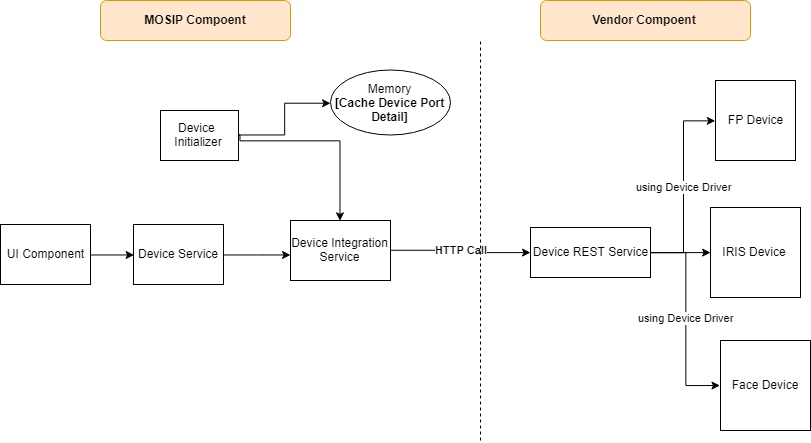
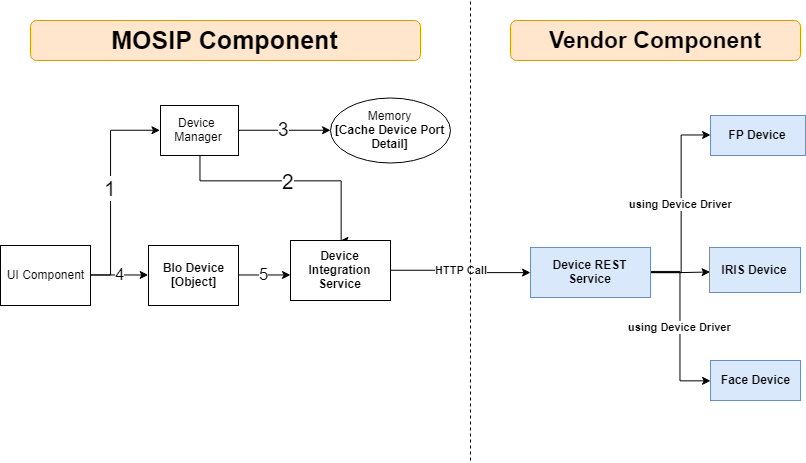
MOS-20888:MDM integration spec updated

Changed region(s): [[0.0, 0.0, 1.0, 0.9684], [0.6203, 0.0, 1.0, 0.1467], [0.8685, 0.1761, 0.8995, 0.2054]]

diff --git a/docs/design/registration/registration-MOSIP-bio-device-integration.md b/docs/design/registration/registration-MOSIP-bio-device-integration.md
@@ -6,81 +6,63 @@ The Registration client application further uses the information to communicate 
 
 There are three major entities are being considered to interact with Bio-metric devices.   
    1. MDM [MOSIP Device Manager - Provided by External third party].  
-   2. DM  [Device Manager - Provided by MOSIP].  
+   2. MDI  [Mosip Bio Device Integrator - Provided by MOSIP].  
    3. Application [Registration client application - Provided by MOSIP].    
 
 **Device Integration Block Diagram:**  
-![Capture Sequence](_images/bio-device-flow-block.png)  
+![Device Integration Block Diagram:](_images/registration_Bio_Device_Integration_block_diagram.png)  
 
 The technical detail of the DM and Registration client application is briefly covered in this document. MDM technical spec is out of this document.  
 
-1. Mainly **TCP protocol** will be used to communicate between DM to MDM and Registration client Application to MDM services.  
-2. DM and MDM services having listener component, it uses 'ServerSocket' from net package to make the communication with its client component.    
-3. MDM internally uses required driver to communicate with the Bio-metric devices.    
-4. Application opens the Socket communication with the defined port of DM and upon confirmation from DM, it makes the communication with MDM through Port.    
-5. All requests and responses carry a requestId, which is a numeric value (128 bit), represented as a 36 character UUID format string in XML.  
-6. MDM only captures the bio-metric images in standard ISO format and provide the same through TCP.  
+1. Mainly **Http protocol** will be used to communicate between Registration client Application, MDI and MDM services.  
+2. The Standard REST call procedure would be followed to make the connection and the request and resposne would follow the standard JSON spec.     
+3. MDM Service internally uses required driver to communicate with the Bio-metric devices.    
+4. Application opens the Http communication with the defined port from MDI.    
+5. All requests and responses carry a requestId, which is a numeric value (128 bit), represented as a 36 character UUID format.  
+
 
 **Out of Scope:** 
    - The MDM technical design is out of scope of this document.  
-   - MDM doesn't provide the Segmentation, Matching, Extraction and quality of images. So it is not covered part of this Spec.  
+     
 
-**DM - Device Manager :** 
-The Device Manager should open the connection with the configured port [from property file] and listen for messages from clients [MDM and Application]  
+**MDI - Mosip Device Integration:** 
+This component should open the connection with the configured port [from property file] and listen for messages from MDM service. 
 
-The MOSIP provided DM service, is responsible for the following:  
-   - Listen on the device arrival and removal events from the vendor-specific device 
-     manager (MDM).  
+The MOSIP provided MDI service, is responsible for the following:  
+   - Identify the MDM service running port by scanning across the configured ports and store the same in cache. 
    - Maintain the list of the all the supported biometric devices available for the
      applications.  
-   - Notify the applications about arrival and removal of the supported devices (
-     PNP).  
-   - The requestId is used to connect requests with the appropriate response.   
-   - DM Listener create a separate Socket thread for each MDM and application.  
-   - The MDM uses the same Socket for all the underlying devices communication. 
-   - The application uses the same Socket for all the communication with DM. 
-
-
-**Device Integration - Class and Sequence Diagram:**  
-![Device Arrival Sequence Flow](_images/registration_Bio_Device_Integration)  
+   - It Notify the applications about arrival and removal of the supported devices .  
+   - Once the request has been triggered to the MDM, the client would wait for certain period to receive the response, if there is no response then terminate the request.
+   - Separate http call would be triggered for each and every requests.   
 
   
-**DM Consuming messages:** 
+**MDI Consuming messages:** 
    1. Connect  
    2. Ping  
-   3. Device Arrival  
-   4. Device Removal  
-
-Refer the request and response xml message from MDM Specification:  
-![MDM Spec](https://github.com/mosip/mosip/wiki/MOSIP-MDM-Specifications)  
-
+   3. Device Discovery   
+   4. Device Info  
 
 **Application :**  
- The Application must connect to the DM to discover the biometric devices.  
-Once discovered, the application must connect to the required devices. These connections   
-are maintained for the **life of the application**, and the application must expect to receive   
-notifications and events about the device arrivals and removals during this time.  
+ The Application must connect to the MDI to discover the biometric devices.  
+Once discovered, the application must connect to the required devices through the respective 'BioDevice' object. 
 
-   - Once the application started then load the DM running ports from property file.  
-   - Span a separate thread to check the connectivity with the DM defined ports.  
-   - If connected then send the 'Connect' message to DM.   
-   - Once send the success response to application then DM will send the available device detail to application.  
-   - Application can use the 'Device A 
-
+   - Once the application started then invoke the init() method in MDI component, to identify the list of configured ports for MDM services.  
+   - Try to connect with the port to identify the running MDM.
+   - If MDM is running in the specified port then it parses the requests and provide response based on the request type.
+   - The JSON structure is followed to send and receive the data from MDM.  
+   - Once the response received from MDM then parse the response and send the required information to the invoking application controller. 
+   - Binary stream would be used to receive the video stream of BIO data and render the same to UI application. 	
   
-**Application consuming XML Messages:** 
-   1. Connect  
-   2. Get Frame  
-   3. Get Sample    
-
-#Refer the request and response xml message from MDM Specification:  
-#![MDM Spec](https://github.com/mosip/mosip/wiki/MOSIP-MDM-Specifications)  
 
 **On click of capture button in application UI:**  
 
-![BIO Capture Block](_images/bio-device-capture-seq-block.png)  
 
-![BIO Capture Sequence](_images/registration_Bio_Device_Integration_block_diagram.png)
+**Device Integration - Class and Sequence Diagram:**  
+![Device Arrival Sequence Flow](_images/registration_Bio_Device_Integration.png)  
+
+
+![BIO Capture Sequence](_images/registration_MOSIP-bio_device_Integration_block_diagram.png)
 
 
 **Device Available:**
@@ -89,21 +71,4 @@ notifications and events about the device arrivals and removals during this time
 	Based on this the flag in the UI would be updated.  
 	This request would regularly update the local cache about the device status, which would be used during capture process.  
 	
-<DeviceManagerEventRequest requestId="">  
-	<Available deviceModality="" />  
-</DeviceManagerEventRequest>  
-
-<DeviceManagerEventResponse requestId="">  
-	<Available value="" failureReason="0"/> 
-</DeviceManagerEventResponse> 
-
-**MDM :**  
-
-  This service only supports the capturing of Bio-metric images from the devices. It doesn't provide the features to segment or match the bio-metric data.  
-  	
-   - deviceURI :The device should reject the connections on the deviceURI, until the existing socket is closed.  
-   - sampleURI : will be provided in the Complete Capture event request message.  
-   - videoURI : will be provided in the response of Start Capture message.    
- 
-  
   
